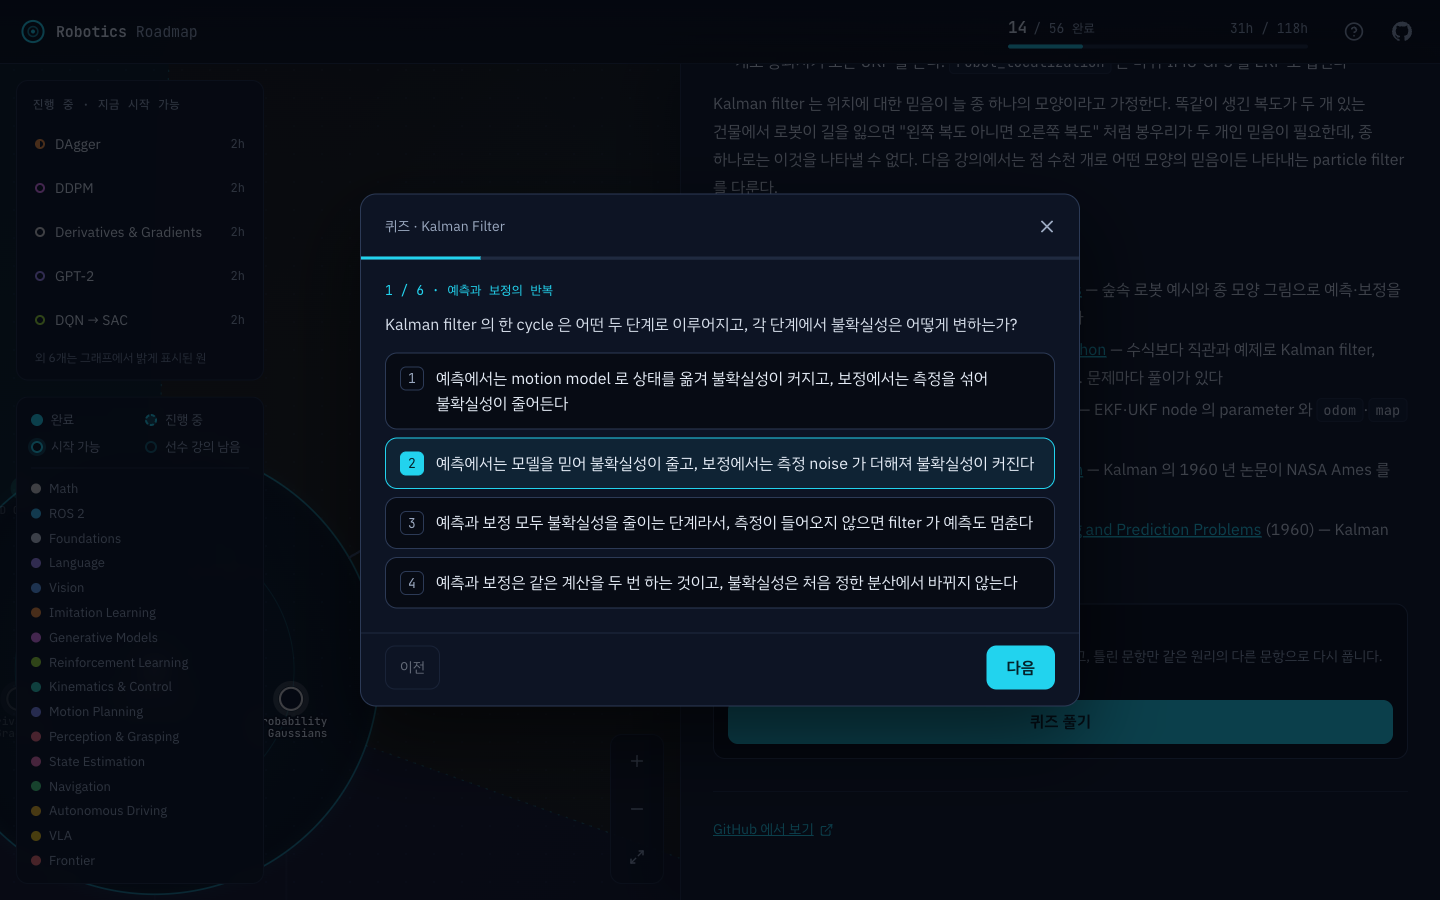
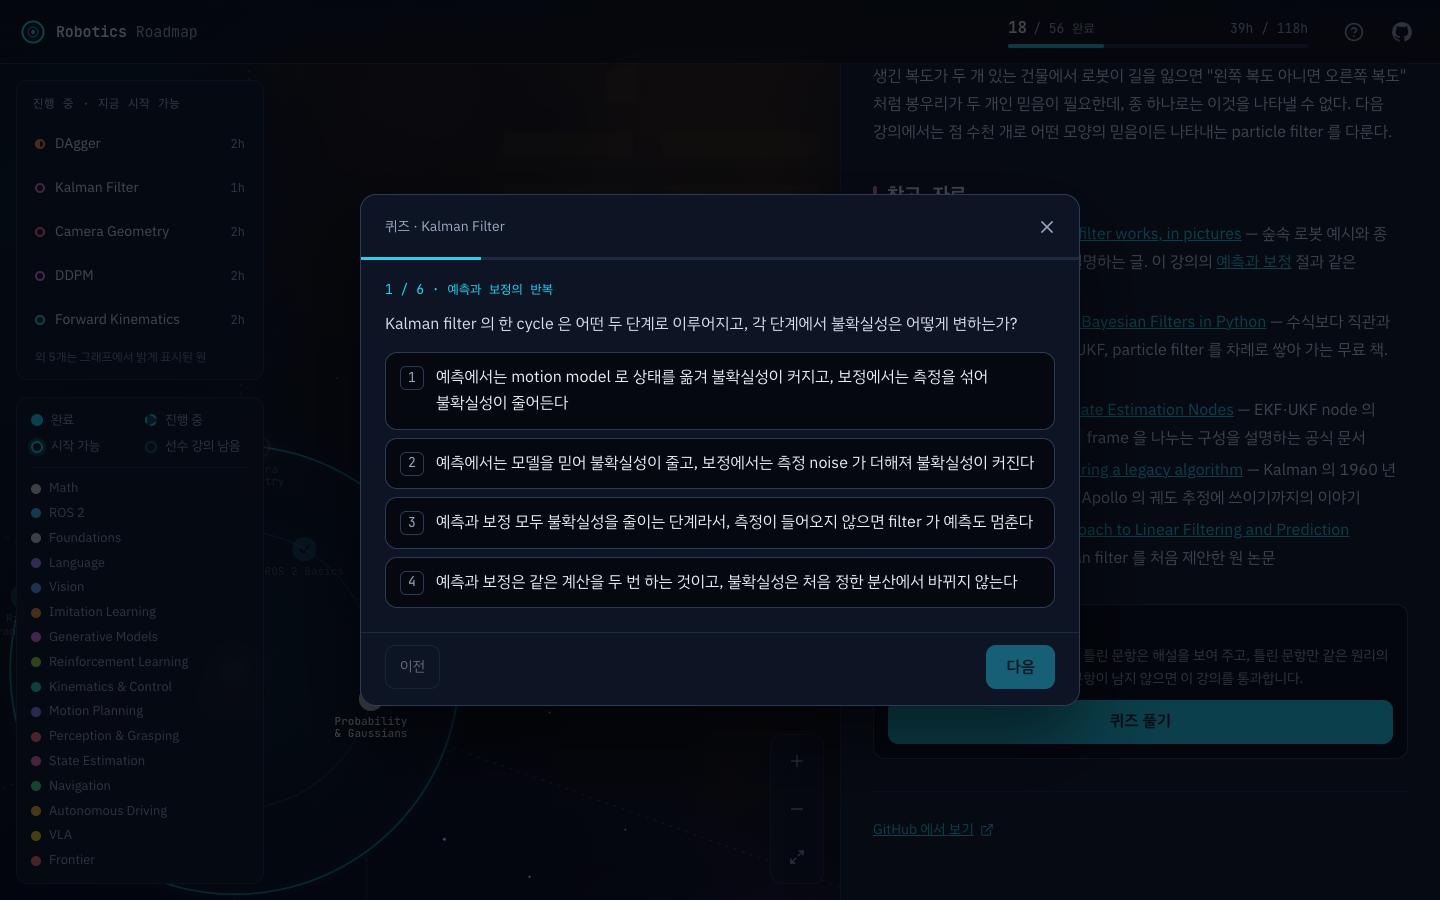
Drop the trunk arrows and thin the clouds around the hub
- The Foundations chain no longer gets accent arrows and a heavier stroke of
  its own, so before any hover it reads like every other edge: accent only for
  lessons done or open. The core chain is still laid out as a straight trunk.
- The Robot Learning and Manipulation clouds thin out near the hub like the
  Mobile Autonomy ones, and the accent glow of a hovered hub is a little
  dimmer, its strength now a config value.
- The README tour GIF, map and quiz screenshots show the current site.

diff --git a/site/src/config.ts b/site/src/config.ts
@@ -95,9 +95,9 @@ export const CONFIG = {
     maxPixelRatio: 2, // caps the canvas resolution on high-density screens
     nebulaScale: 700, // px of the layout per noise cell of the clouds
     nebulaStrength: 0.3,
-    // trees whose clouds are thinned near the hub, by this share at the rim easing to none at three times its radius:
-    // amber reads much brighter than the other trees' colours there
-    innerCut: { mobile: 0.6 } as Record<string, number>,
+    // trees whose clouds are thinned near the hub, by this share at the rim easing to none at three times its radius, so
+    // the clouds stay clear of the hub's lessons; amber reads much brighter than the other colours there
+    innerCut: { learning: 0.4, manipulation: 0.4, mobile: 0.6 } as Record<string, number>,
     treeDensity: { mobile: 0.7 } as Record<string, number>, // a tree's clouds, as a share of the others' brightness
     nebulaSpread: 1.7, // the clouds fade out by this many times the distance from the centre to the map's farthest point
     // stars behind the clouds, scattered over the same square; most are small, a few large
@@ -118,6 +118,7 @@ export const CONFIG = {
     },
     accent: '#22d3ee', // the hovered hub's light, in the site's accent colour (styles.css --accent)
     focusGain: 1.2, // how much brighter the hovered area's clouds get (1.2: 2.2 times)
+    hubGlow: 0.07, // how bright the accent cloud filling the hovered hub is, where its clouds are thinnest
     focusEase: 6, // how fast an area's light follows the pointer, per second
   },
 

diff --git a/site/src/components/MapScene.tsx b/site/src/components/MapScene.tsx
@@ -100,7 +100,7 @@ const PLANE_VERTEX = /* glsl */ `
 // behind everything: clouds in each tree's colour, brightest just outside the hub and fading out past the map; the
 // hovered area's clouds brighten, and a hovered hub lights up in the accent colour
 const BACKDROP_FRAGMENT = /* glsl */ `
-  uniform float uTime, uRim, uReach, uScale, uStrength, uHubFocus, uSpread;
+  uniform float uTime, uRim, uReach, uScale, uStrength, uHubFocus, uHubGlow, uSpread;
   uniform vec3 uAccent;
   varying vec2 vPos;
   ${TINT}
@@ -119,7 +119,7 @@ const BACKDROP_FRAGMENT = /* glsl */ `
     vec3 col = tint.rgb * (0.18 + cloud) * fall * uStrength * tint.a;
     // the hub, hovered, fills with a soft cloud of the accent colour
     float inside = 1.0 - smoothstep(uRim * 0.97, uRim, r);
-    col += uAccent * uHubFocus * (0.1 + cloud * 0.12) * inside;
+    col += uAccent * uHubFocus * uHubGlow * (1.0 + cloud * 1.2) * inside;
     gl_FragColor = light(col);
   }
 `
@@ -243,6 +243,7 @@ export function MapScene({ curriculum: c, layout, onReady, ref }: Props) {
         uFocus: { value: Array.from({ length: MAX_TREES }, () => 0) },
         uInnerCut: { value: Array.from({ length: MAX_TREES }, (_, i) => (trees[i] ? (S.innerCut[trees[i].tree] ?? 0) : 0)) },
         uHubFocus: { value: 0 },
+        uHubGlow: { value: S.hubGlow },
         uAccent: { value: new Color(S.accent) },
         uCount: { value: trees.length },
         uColor: {

diff --git a/site/src/curriculum/layout.ts b/site/src/curriculum/layout.ts
@@ -46,8 +46,6 @@ export interface Edge {
   path: string
   /** the path sampled as a polyline */
   points: Point[]
-  /** prerequisite edge inside the core branch; drawn as the graph's trunk */
-  trunk: boolean
   /** prerequisite in another tree; drawn faint so it does not compete with the trees */
   bridge: boolean
 }
@@ -519,8 +517,7 @@ export async function computeLayout(c: Curriculum): Promise<Layout> {
           const a = d.at.get(q)!
           first = { x: a.x, y: a.y + turnedBox(shapes.get(q)!.box, d.tree).bottom }
         }
-        const trunk = isCore(q) && isCore(to)
-        edges.push({ from: q, to, trunk, bridge: inHub(q) && aside, ...treeCurve([first, ...rest], (p) => toScreen(d, p)) })
+        edges.push({ from: q, to, bridge: inHub(q) && aside, ...treeCurve([first, ...rest], (p) => toScreen(d, p)) })
         drawn.add(`${q}>${to}`)
       }
     }
@@ -544,7 +541,7 @@ export async function computeLayout(c: Curriculum): Promise<Layout> {
       const c2 = { x: end.x - inward.x * k, y: end.y - inward.y * k }
       const points = [start]
       bezier(start, c1, c2, end, points)
-      edges.push({ from: q, to: p.id, trunk: false, bridge: true, path: `M${f(start)}C${f(c1)} ${f(c2)} ${f(end)}`, points })
+      edges.push({ from: q, to: p.id, bridge: true, path: `M${f(start)}C${f(c1)} ${f(c2)} ${f(end)}`, points })
     }
   }
 

diff --git a/site/src/components/Holygraph.tsx b/site/src/components/Holygraph.tsx
@@ -203,17 +203,6 @@ export function Holygraph({
         }}
       >
         <defs>
-          <marker
-            id="hg-trunk-arrow"
-            viewBox="0 0 10 10"
-            refX="9"
-            refY="5"
-            markerWidth="5"
-            markerHeight="5"
-            orient="auto-start-reverse"
-          >
-            <path d="M0,1 L9,5 L0,9 Z" className="hg-arrow" />
-          </marker>
           {/* each tree's tint is strongest at the rim and fades out toward the edge of the map */}
           {c.trees.map((t) => (
             <radialGradient key={t.id} id={`hg-area-${t.id}`} gradientUnits="userSpaceOnUse" cx={0} cy={0} r={layout.reach}>
@@ -279,10 +268,9 @@ export function Holygraph({
                 <path
                   key={`${e.from}>${e.to}`}
                   d={e.path}
-                  className={`hg-edge is-${kind} ${e.trunk ? 'is-trunk' : ''} ${e.bridge ? 'is-bridge' : ''} ${lit ? 'is-lit' : ''} ${
+                  className={`hg-edge is-${kind} ${e.bridge ? 'is-bridge' : ''} ${lit ? 'is-lit' : ''} ${
                     emphasis && !lit ? 'is-dim' : ''
                   }`}
-                  markerEnd={e.trunk ? 'url(#hg-trunk-arrow)' : undefined}
                 />
               )
             })}

diff --git a/site/src/styles.css b/site/src/styles.css
@@ -534,12 +534,8 @@ code {
   transition: opacity 200ms var(--ease), stroke-width 200ms var(--ease);
 }
 
-.hg-arrow {
-  fill: var(--accent);
-}
-
-/* edges that lead somewhere now, the trunk and a hovered chain are drawn in the accent colour; the rest stay grey */
-:is(.hg-edge.is-open, .hg-edge.is-done, .hg-edge.is-lit, .hg-edge.is-trunk) {
+/* edges that lead somewhere now and a hovered chain are drawn in the accent colour; the rest stay grey */
+:is(.hg-edge.is-open, .hg-edge.is-done, .hg-edge.is-lit) {
   stroke: var(--accent);
 }
 
@@ -575,12 +571,6 @@ code {
 
 .hg-edge.is-lit {
   stroke-opacity: 1;
-  stroke-width: 2.6;
-  stroke-dasharray: none;
-}
-
-.hg-edge.is-trunk {
-  stroke-opacity: 0.9;
   stroke-width: 2.6;
   stroke-dasharray: none;
 }

diff --git a/site/src/curriculum/types.ts b/site/src/curriculum/types.ts
@@ -3,7 +3,7 @@ export interface Branch {
   title: string
   summary: string
   color: string
-  /** the foundations every other branch builds on; its chain is drawn as the graph's trunk */
+  /** the foundations every other branch builds on; its chain is laid out as the graph's straight trunk */
   core: boolean
 }
 
